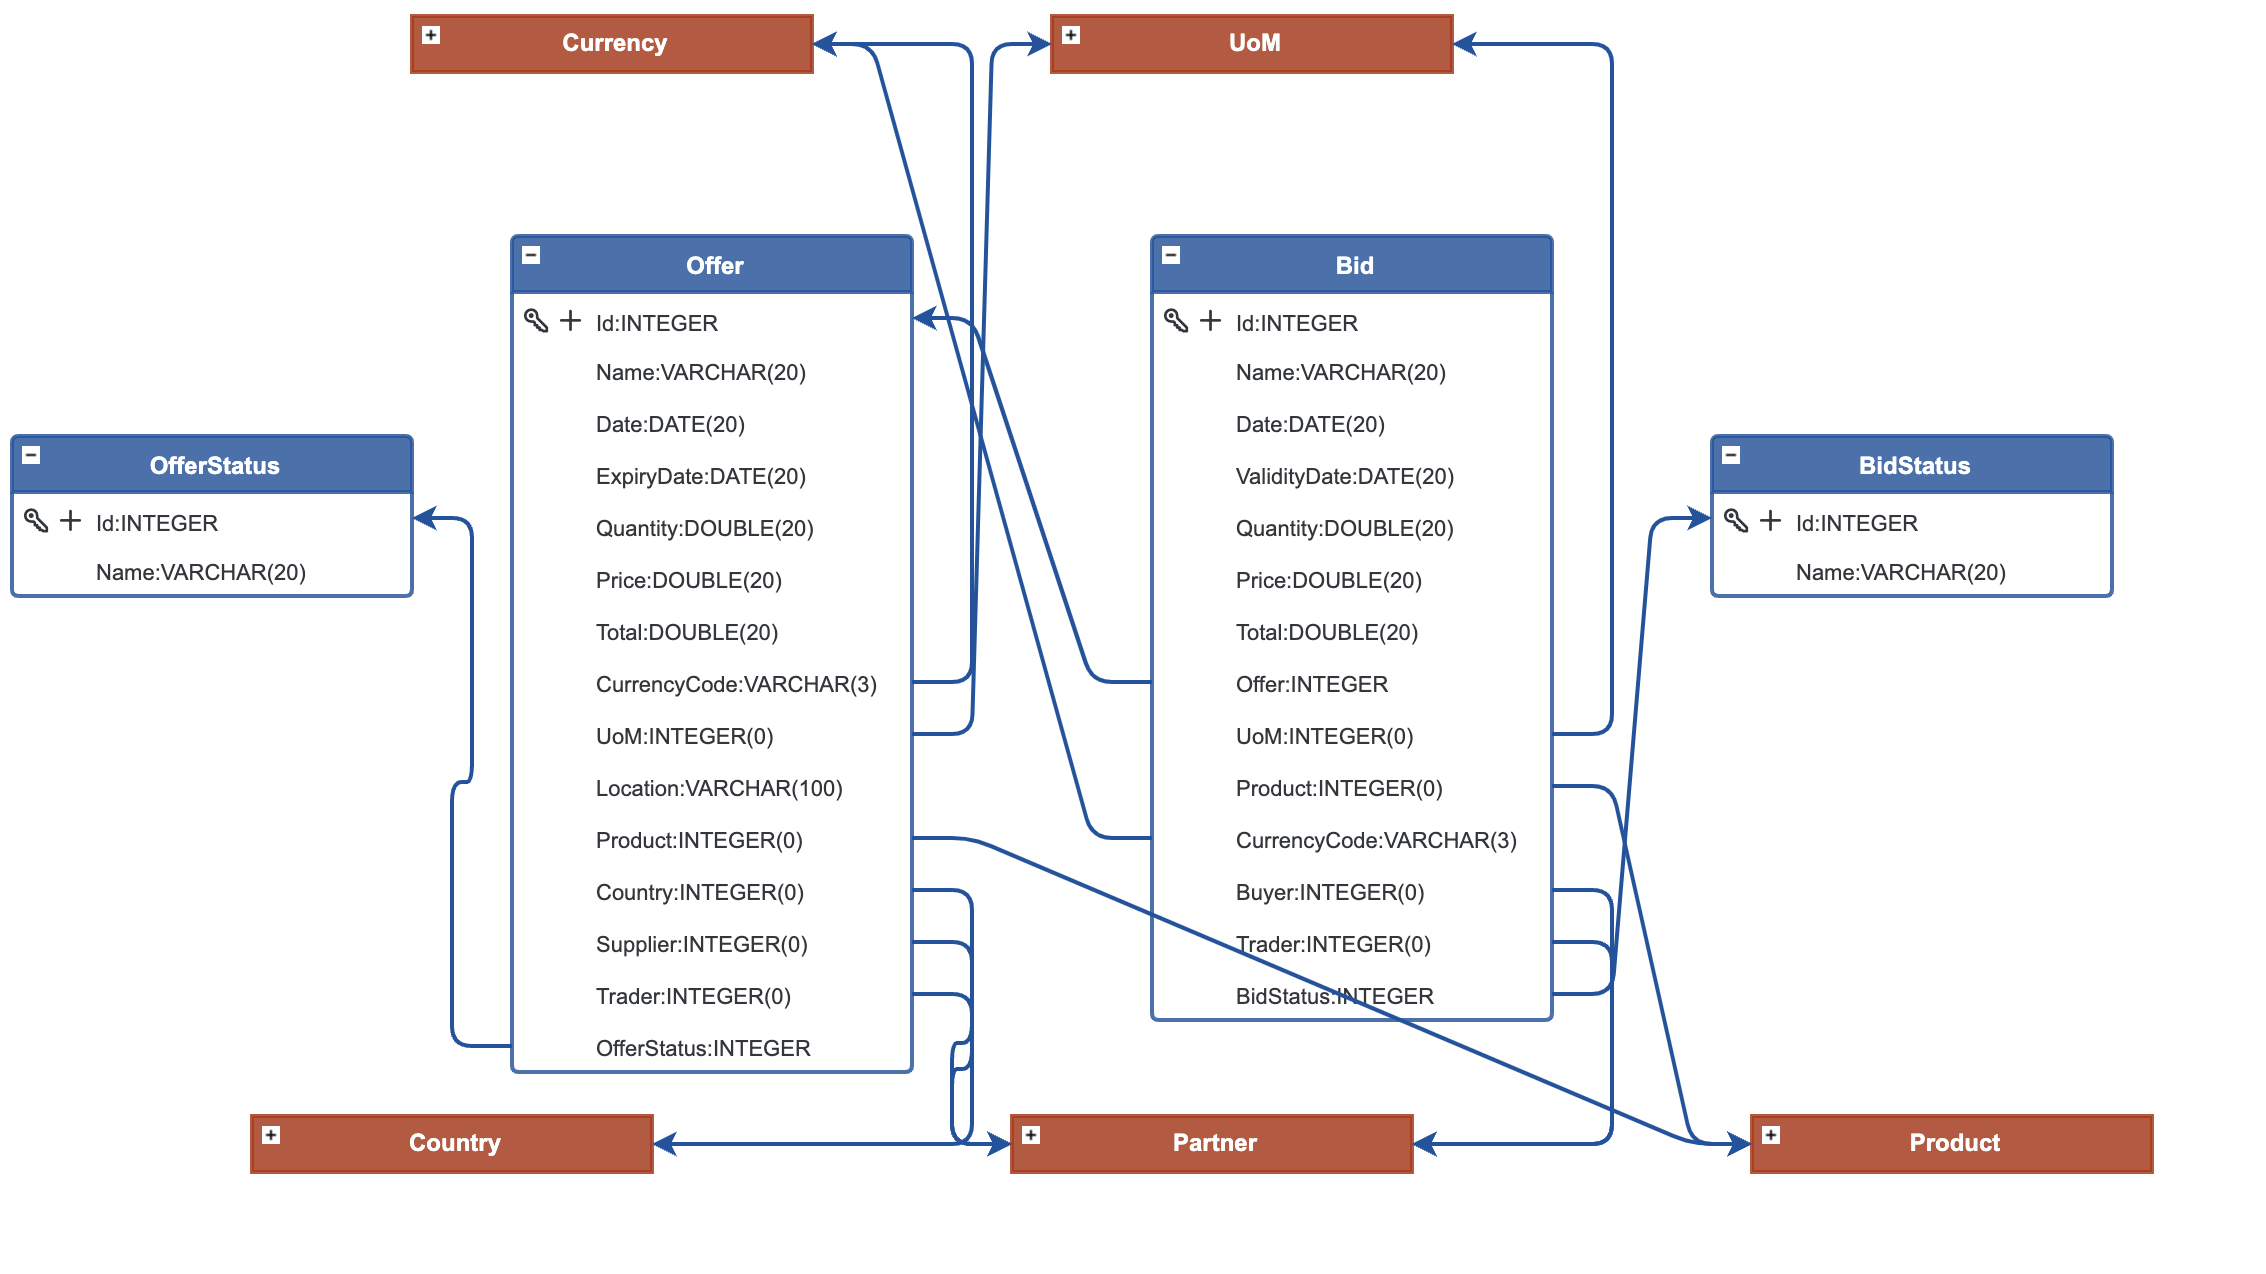
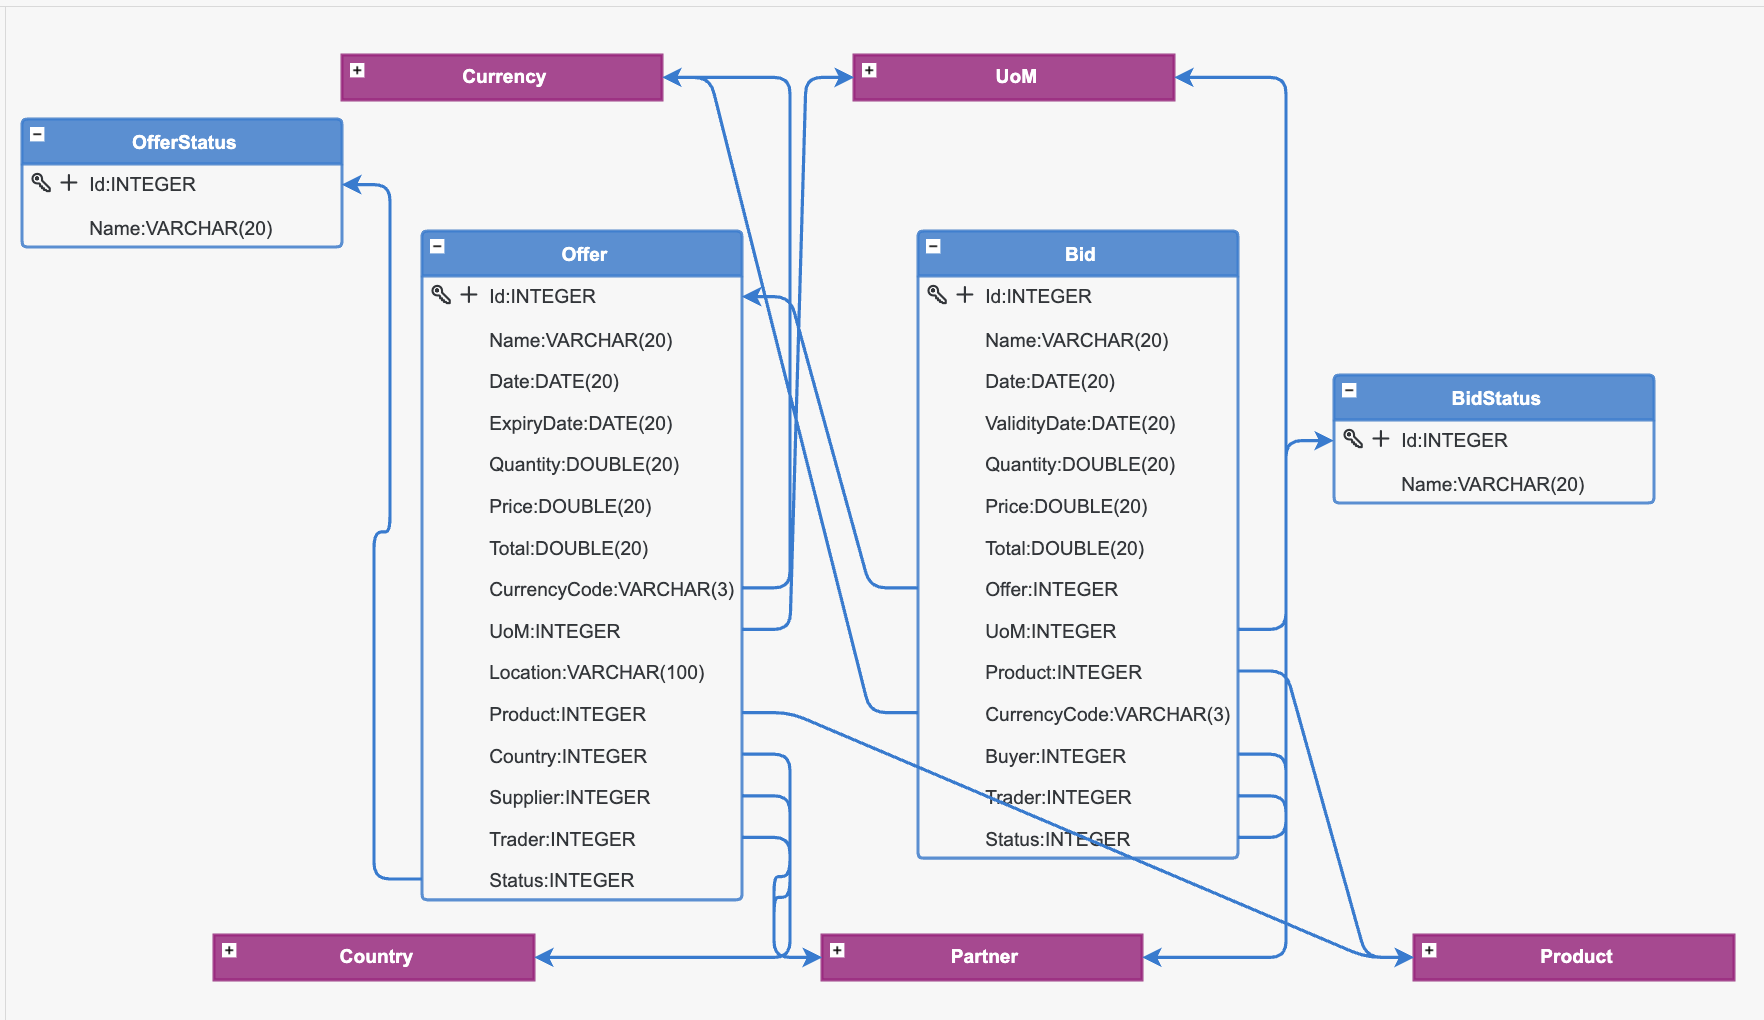
update model in readme.md

Changed region(s): [[0.0, 0.0, 0.9977, 0.9725]]

diff --git a/README.md b/README.md
@@ -16,18 +16,3 @@ Bids Management Application
 ![offers](images/bids-offers.png)
 
 ![bids](images/bids-bids.png)
-
-
-### Infrastructure
-
-#### Build
-
-	docker build -t codbex-bids:1.0.0 .
-
-#### Run
-
-	docker run --name codbex-bids -d -p 8080:8080 codbex-bids:1.0.0
-
-#### Clean
-
-	docker rm codbex-bids
